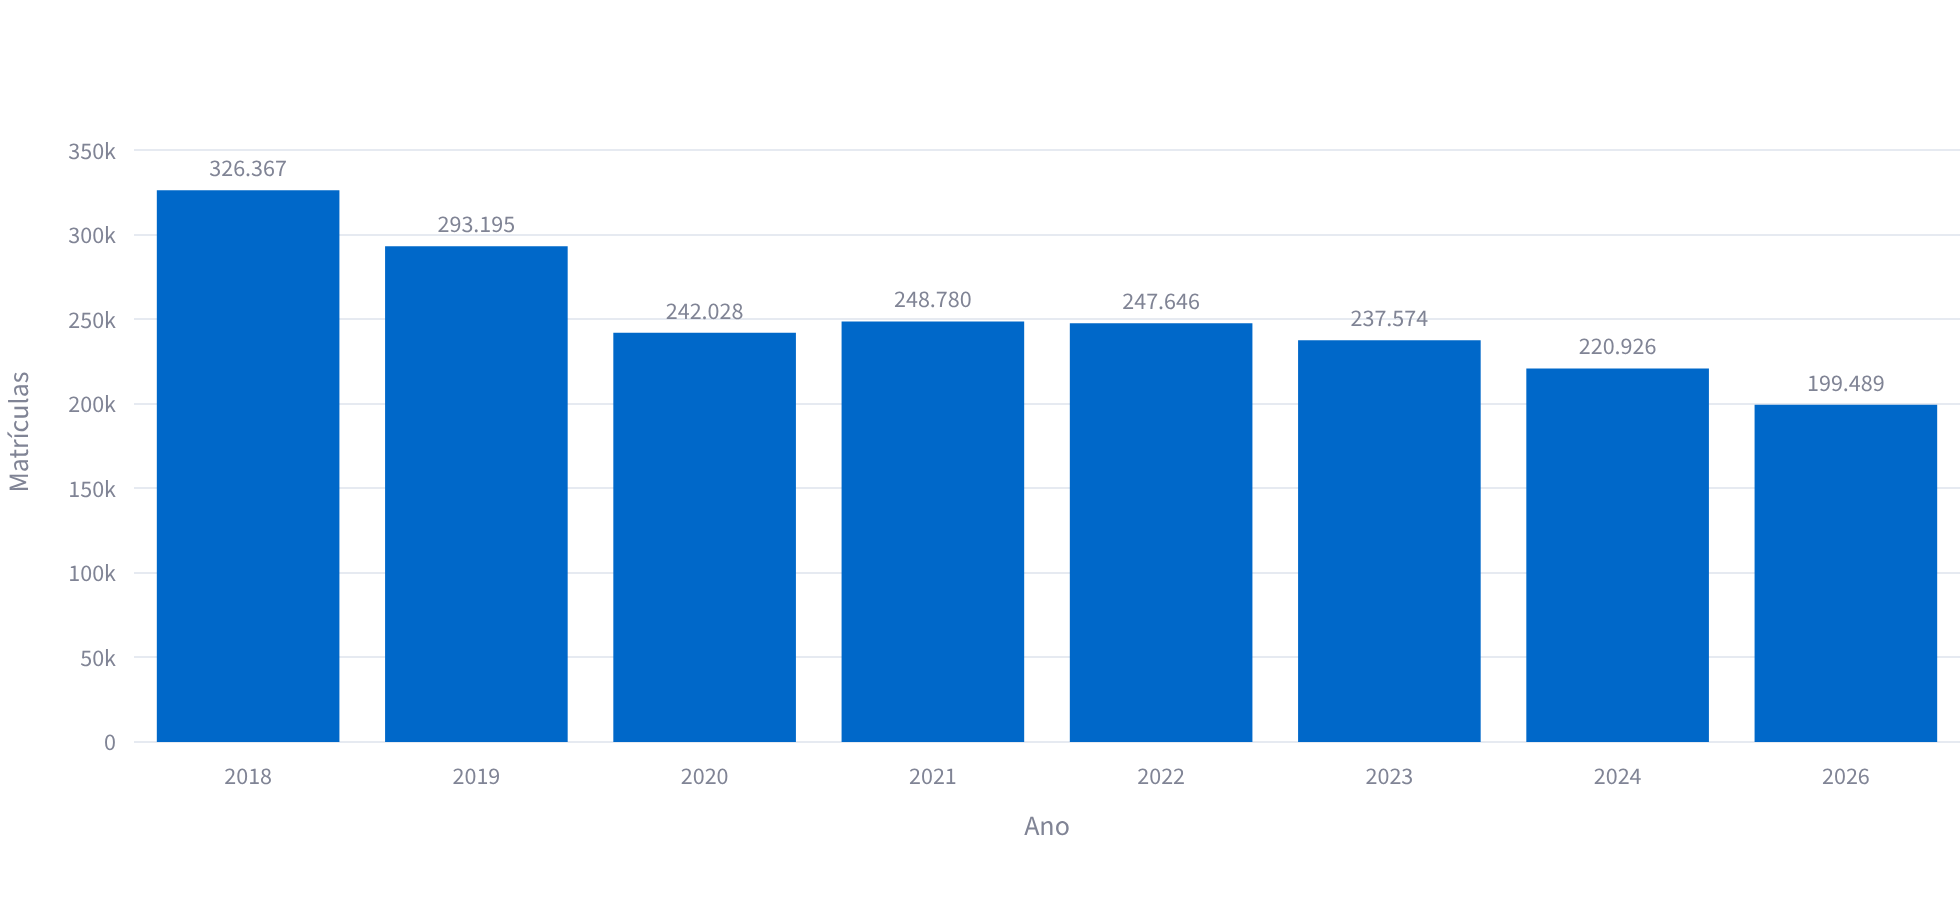
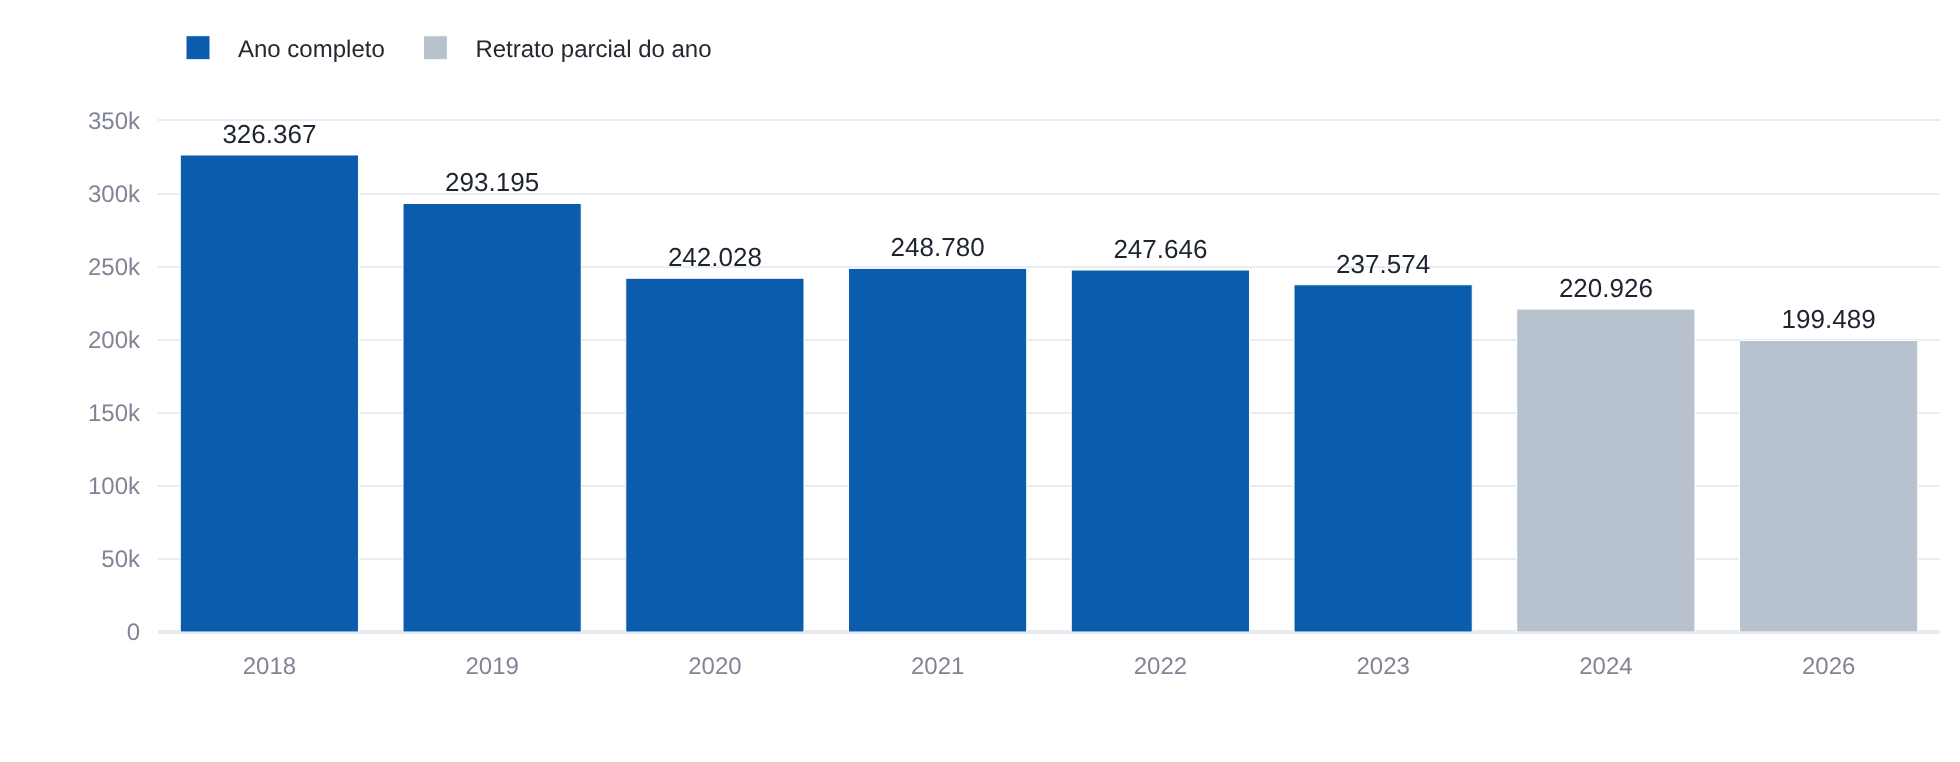
Redesenho visual do dashboard
- Tema claro com cor institucional e selo do ODS 4 no cabeçalho
- Abas Visão geral, Municípios e Dados
- Aprovação e demais taxas em gráficos separados, cada um com escala própria
- Matrículas de 2024 e 2026 destacadas como retrato parcial
- Ranking com a média marcada e novo ranking de maiores avanços
- Tabela com nomes legíveis, vírgula decimal e "—" para taxas ausentes
- Prints e README atualizados

Claude-Session: https://claude.ai/code/session_019t3nZRBpDnxDj5ysVaoMkY

diff --git a/app.py b/app.py
@@ -1,15 +1,71 @@
+"""Dashboard: evolução da educação na rede estadual de Mato Grosso do Sul (ODS 4)."""
 import plotly.express as px
+import plotly.graph_objects as go
 import streamlit as st
 
 from src.repository import RepositorioEscolar
 
-st.set_page_config(page_title="Educação em MS — ODS 4", layout="wide")
-st.title("Evolução da educação na rede estadual de Mato Grosso do Sul")
-st.caption(
-    "Fonte: Portal de Dados Abertos de MS / SED (licença CC-BY). "
-    "2025 não está disponível no portal. 2024 e 2026 são retratos do meio do ano letivo: "
-    "mostram matrículas, mas não têm taxas de rendimento."
+AZUL = "#0B5CAD"
+CINZA = "#B8C2CF"
+CORES = {"Aprovação": "#0B5CAD", "Reprovação": "#E67E22", "Abandono": "#C0392B", "Cancelamento": "#8E44AD"}
+FONTE = "Source Sans Pro, sans-serif"
+
+st.set_page_config(page_title="Educação em MS — ODS 4", page_icon="📊", layout="wide")
+
+st.markdown(
+    """
+    <style>
+      .block-container { padding-top: 2rem; }
+      .cabecalho { display: flex; gap: 1rem; align-items: center; margin-bottom: .25rem; }
+      .ods { background: #C5192D; color: #fff; border-radius: 8px; padding: .55rem .8rem; text-align: center;
+             font-weight: 700; line-height: 1.05; min-width: 74px; }
+      .ods span { display: block; font-size: .62rem; font-weight: 600; letter-spacing: .04em; }
+      .ods b { font-size: 1.7rem; }
+      .cabecalho h1 { font-size: 1.85rem; margin: 0; padding: 0; color: #12233B; }
+      .cabecalho p { margin: .15rem 0 0; color: #5B6472; font-size: .95rem; }
+      div[data-testid="stMetric"] { background: #F7F9FC; }
+      .nota { color: #5B6472; font-size: .85rem; }
+    </style>
+    <div class="cabecalho">
+      <div class="ods"><span>ODS</span><b>4</b><span>EDUCAÇÃO</span></div>
+      <div>
+        <h1>Evolução da educação na rede estadual de Mato Grosso do Sul</h1>
+        <p>Aprovação, reprovação, abandono e matrículas por município e ano · dados oficiais da SED/MS</p>
+      </div>
+    </div>
+    """,
+    unsafe_allow_html=True,
 )
+
+
+def pct(v: float) -> str:
+    return f"{v:.1f}%".replace(".", ",")
+
+
+def pp(v: float) -> str:
+    return f"{v:+.1f}".replace(".", ",") + " p.p."
+
+
+def nome(m: str) -> str:
+    """CAMPO GRANDE -> Campo Grande; preposições em minúsculas."""
+    t = m.title()
+    for prep in ("Do", "Da", "De", "Dos", "Das"):
+        t = t.replace(f" {prep} ", f" {prep.lower()} ")
+    return t
+
+
+def milhar(v: float) -> str:
+    return f"{int(v):,}".replace(",", ".")
+
+
+def estilo(fig: go.Figure, altura: int = 360) -> go.Figure:
+    fig.update_layout(template="plotly_white", height=altura, separators=",.",
+                      font=dict(family=FONTE, size=13, color="#1D2430"),
+                      margin=dict(l=10, r=10, t=10, b=10), hoverlabel=dict(font_family=FONTE),
+                      legend=dict(orientation="h", yanchor="bottom", y=1.02, x=0, title=None))
+    fig.update_xaxes(showgrid=False)
+    fig.update_yaxes(gridcolor="#E9EDF3")
+    return fig
 
 
 @st.cache_resource
@@ -22,9 +78,16 @@ anos = repo.anos()
 
 with st.sidebar:
     st.header("Filtros")
-    sel_mun = st.multiselect("Municípios (vazio = estado todo)", repo.municipios(),
-                             placeholder="Selecione municípios")
+    sel_mun = st.multiselect("Municípios", repo.municipios(), placeholder="Estado todo")
     ano_ini, ano_fim = st.select_slider("Período", options=anos, value=(anos[0], anos[-1]))
+    st.divider()
+    st.markdown(
+        "<div class='nota'><b>Sobre os dados</b><br>Fonte: Portal de Dados Abertos de MS (SED/MS, CC-BY).<br>"
+        "• 2025 não está disponível no portal.<br>"
+        "• 2024 e 2026 são retratos do meio do ano letivo: têm matrículas, mas não taxas.<br>"
+        "• O abandono é registrado como zero a partir de 2020; por isso também mostramos o cancelamento.</div>",
+        unsafe_allow_html=True,
+    )
 
 df = repo.indicadores(sel_mun, ano_ini, ano_fim)
 if df.empty:
@@ -41,84 +104,144 @@ agg["Reprovação"] = (agg["reprovados"] / base * 100).where(agg["completo"])
 agg["Abandono"] = (agg["abandono"] / base * 100).where(agg["completo"])
 agg["Cancelamento"] = (agg["cancelados"] / (base + agg["cancelados"]) * 100).where(agg["completo"])
 completos = agg[agg["completo"]]
+recorte = "Estado todo" if not sel_mun else ", ".join(nome(m) for m in sel_mun[:3]) + ("…" if len(sel_mun) > 3 else "")
 
-def pct(v: float) -> str:
-    return f"{v:.1f}%".replace(".", ",")
+st.caption(f"Recorte: **{recorte}** · {ano_ini}–{ano_fim}")
 
+aba_geral, aba_mun, aba_dados = st.tabs(["Visão geral", "Municípios", "Dados"])
 
-def pp(v: float) -> str:
-    return f"{v:+.1f}".replace(".", ",") + " p.p."
+# ---------------------------------------------------------------- Visão geral
+with aba_geral:
+    if len(completos) >= 2:
+        a, b = completos.iloc[0], completos.iloc[-1]
+        ini, fim = int(a.ano), int(b.ano)
+        c1, c2, c3, c4 = st.columns(4)
+        c1.metric(f"Aprovação {fim}", pct(b["Aprovação"]), f"{pp(b['Aprovação'] - a['Aprovação'])} desde {ini}",
+                  border=True)
+        c2.metric(f"Reprovação {fim}", pct(b["Reprovação"]), f"{pp(b['Reprovação'] - a['Reprovação'])} desde {ini}",
+                  delta_color="inverse", border=True)
+        c3.metric(f"Cancelamento {fim}", pct(b["Cancelamento"]),
+                  f"{pp(b['Cancelamento'] - a['Cancelamento'])} desde {ini}", delta_color="inverse", border=True)
+        ult, pri = agg.iloc[-1], agg.iloc[0]
+        var_mat = (ult.matriculas / pri.matriculas - 1) * 100
+        c4.metric(f"Matrículas {int(ult.ano)}", milhar(ult.matriculas),
+                  f"{var_mat:+.0f}% desde {int(pri.ano)}", delta_color="off", border=True)
+    else:
+        st.info("Escolha um período com pelo menos dois anos completos (2018 a 2023) para ver a variação.")
 
+    if not completos.empty:
+        col1, col2 = st.columns(2)
+        with col1:
+            st.markdown("##### Taxa de aprovação")
+            fig = px.line(completos, x="ano", y="Aprovação", markers=True, text="Aprovação",
+                          color_discrete_sequence=[AZUL], labels={"ano": "", "Aprovação": ""})
+            posicoes = ["bottom center"] + ["top center"] * (len(completos) - 1)
+            fig.update_traces(texttemplate="%{text:.1f}%", textposition=posicoes, line_width=3,
+                              marker_size=9, hovertemplate="%{x}: %{y:.1f}%<extra></extra>")
+            lo, hi = completos["Aprovação"].min(), completos["Aprovação"].max()
+            fig.update_yaxes(range=[max(0, lo - 7), min(100, hi + 4)], ticksuffix="%")
+            fig.update_xaxes(dtick=1)
+            st.plotly_chart(estilo(fig), width="stretch")
+        with col2:
+            st.markdown("##### Reprovação, abandono e cancelamento")
+            longo = completos.melt(id_vars="ano", value_vars=["Reprovação", "Abandono", "Cancelamento"],
+                                   var_name="Indicador", value_name="Taxa")
+            fig = px.line(longo, x="ano", y="Taxa", color="Indicador", markers=True,
+                          color_discrete_map=CORES, labels={"ano": "", "Taxa": ""})
+            fig.update_traces(line_width=3, marker_size=8, hovertemplate="%{x}: %{y:.1f}%<extra></extra>")
+            fig.update_yaxes(rangemode="tozero", ticksuffix="%")
+            fig.update_xaxes(dtick=1)
+            st.plotly_chart(estilo(fig), width="stretch")
+        st.markdown("<div class='nota'>Taxas calculadas só para anos completos (2018–2023), no padrão INEP: "
+                    "Aprovados ÷ (Aprovados + Reprovados + Abandono).</div>", unsafe_allow_html=True)
 
-# Cartões: primeiro e último ano completos do período
-if len(completos) >= 2:
-    a, b = completos.iloc[0], completos.iloc[-1]
-    ini, fim = int(a.ano), int(b.ano)
-    c1, c2, c3, c4 = st.columns(4)
-    c1.metric(f"Aprovação {fim}", pct(b["Aprovação"]), f"{pp(b['Aprovação'] - a['Aprovação'])} desde {ini}")
-    c2.metric(f"Reprovação {fim}", pct(b["Reprovação"]),
-              f"{pp(b['Reprovação'] - a['Reprovação'])} desde {ini}", delta_color="inverse")
-    c3.metric(f"Cancelamento {fim}", pct(b["Cancelamento"]),
-              f"{pp(b['Cancelamento'] - a['Cancelamento'])} desde {ini}", delta_color="inverse")
-    ult = agg.iloc[-1]
-    c4.metric(f"Matrículas {int(ult.ano)}", f"{int(ult.matriculas):,}".replace(",", "."))
-else:
-    st.info("Escolha um período com pelo menos dois anos completos (2018 a 2023) para ver a variação.")
+    st.markdown("##### Matrículas por ano")
+    barras = agg.assign(ano=agg["ano"].astype(str),
+                        situacao=agg["completo"].map({True: "Ano completo", False: "Retrato parcial do ano"}))
+    fig = px.bar(barras, x="ano", y="matriculas", text="matriculas", color="situacao",
+                 color_discrete_map={"Ano completo": AZUL, "Retrato parcial do ano": CINZA},
+                 labels={"matriculas": "", "ano": ""})
+    fig.update_traces(texttemplate="%{text:,.0f}", textposition="outside", cliponaxis=False,
+                      hovertemplate="%{x}: %{y:,.0f} matrículas<extra></extra>")
+    fig.update_xaxes(type="category")
+    st.plotly_chart(estilo(fig, 380), width="stretch")
 
-if not completos.empty:
-    st.subheader("Taxas de rendimento por ano (anos completos)")
-    longo = completos.melt(id_vars="ano", value_vars=["Aprovação", "Reprovação", "Abandono", "Cancelamento"],
-                           var_name="Indicador", value_name="Taxa (%)")
-    cores = {"Aprovação": "#2e86de", "Reprovação": "#f39c12", "Abandono": "#e74c3c", "Cancelamento": "#8e44ad"}
-    fig = px.line(longo, x="ano", y="Taxa (%)", color="Indicador", markers=True, labels={"ano": "Ano"},
-                  color_discrete_map=cores)
-    fig.update_xaxes(dtick=1)
-    fig.update_layout(separators=",.")
-    st.plotly_chart(fig, width="stretch")
-    st.caption("O portal registra abandono igual a zero em todas as escolas a partir de 2020. "
-               "Cancelamento (matrículas canceladas) é exibido como indicador complementar.")
+# ---------------------------------------------------------------- Municípios
+with aba_mun:
+    anos_completos = sorted(df.loc[df["ano_completo"] == 1, "ano"].unique())
+    if not anos_completos:
+        st.info("O período escolhido não tem anos completos (2018 a 2023).")
+    elif len(sel_mun) == 1:
+        st.info("Com um único município selecionado, veja a tabela de escolas abaixo. "
+                "Para comparar municípios, deixe o filtro vazio ou escolha vários.")
+    else:
+        ano_rank, ano_base = int(anos_completos[-1]), int(anos_completos[0])
+        media = completos.loc[completos["ano"] == ano_rank, "Aprovação"].iloc[0]
+        col1, col2 = st.columns(2)
+        with col1:
+            st.markdown(f"##### Menor aprovação em {ano_rank}")
+            rank = (df[df["ano"] == ano_rank].dropna(subset=["taxa_aprovacao"])
+                    .sort_values("taxa_aprovacao").head(15))
+            fig = go.Figure(go.Bar(x=rank["taxa_aprovacao"], y=rank["municipio"].map(nome), orientation="h",
+                                   marker_color=AZUL, text=rank["taxa_aprovacao"], texttemplate="%{text:.1f}%",
+                                   textposition="inside", insidetextanchor="end",
+                                   textfont=dict(color="#FFFFFF"),
+                                   hovertemplate="%{y}: %{x:.1f}%<extra></extra>"))
+            fig.add_vline(x=media, line_dash="dash", line_color="#C0392B", line_width=2)
+            fig.add_annotation(x=media, y=1, yref="paper", yanchor="bottom", showarrow=False,
+                               text=f"média {pct(media)}", font=dict(color="#C0392B"))
+            fig.update_yaxes(autorange="reversed")
+            fig.update_xaxes(range=[0, 100], ticksuffix="%")
+            fig = estilo(fig, 160 + 30 * len(rank))
+            fig.update_layout(margin=dict(t=34))
+            st.plotly_chart(fig, width="stretch")
+        with col2:
+            st.markdown(f"##### Maiores avanços na aprovação ({ano_base}→{ano_rank})")
+            ini = df[df["ano"] == ano_base].set_index("municipio")["taxa_aprovacao"]
+            fim = df[df["ano"] == ano_rank].set_index("municipio")["taxa_aprovacao"]
+            dif = (fim - ini).dropna()
+            var = dif.sort_values(ascending=False).head(15)
+            if ano_base == ano_rank or var.empty:
+                st.info("Escolha um período com pelo menos dois anos completos.")
+            else:
+                cores = ["#1E8449" if v >= 0 else "#C0392B" for v in var]
+                fig = go.Figure(go.Bar(x=var.values, y=[nome(m) for m in var.index], orientation="h",
+                                       marker_color=cores, text=var.values, texttemplate="%{text:+.1f} p.p.",
+                                       textposition="outside", cliponaxis=False,
+                                       hovertemplate="%{y}: %{x:+.1f} p.p.<extra></extra>"))
+                fig.update_yaxes(autorange="reversed")
+                fig.update_xaxes(ticksuffix=" p.p.", range=[min(0, var.min()) - 2, max(var.max(), 1) * 1.3])
+                fig = estilo(fig, 160 + 30 * len(var))
+                fig.update_layout(margin=dict(t=34))
+                st.plotly_chart(fig, width="stretch")
+                st.markdown(f"<div class='nota'>{int(dif.gt(0).sum())} de {dif.size} municípios aumentaram a "
+                            f"aprovação entre {ano_base} e {ano_rank}.</div>", unsafe_allow_html=True)
 
-st.subheader("Matrículas por ano")
-barras = agg.assign(ano=agg["ano"].astype(str))  # eixo por categoria: 2025 não aparece como coluna vazia
-fig = px.bar(barras, x="ano", y="matriculas", text="matriculas", labels={"matriculas": "Matrículas", "ano": "Ano"})
-fig.update_traces(texttemplate="%{text:,.0f}", textposition="outside")
-fig.update_xaxes(type="category")
-fig.update_layout(separators=",.")
-st.plotly_chart(fig, width="stretch")
-st.caption("Não há arquivo de 2025 no portal. 2024 e 2026 são retratos do meio do ano letivo.")
+    if len(sel_mun) == 1:
+        st.markdown(f"##### Escolas de {nome(sel_mun[0])}")
+        escolas = repo.escolas(sel_mun[0], ano_ini, ano_fim).rename(columns={
+            "escola": "Escola", "ano": "Ano", "matriculas": "Matrículas", "aprovados": "Aprovados",
+            "reprovados": "Reprovados", "abandono": "Abandono", "cancelados": "Cancelados",
+            "transferidos": "Transferidos", "cursando": "Cursando"})
+        st.dataframe(escolas, width="stretch", hide_index=True,
+                     column_config={"Ano": st.column_config.NumberColumn(format="%d")})
 
-anos_completos = sorted(df.loc[df["ano_completo"] == 1, "ano"].unique())
-if anos_completos and len(sel_mun) != 1:
-    ano_rank = int(anos_completos[-1])
-    rank = df[df["ano"] == ano_rank].dropna(subset=["taxa_aprovacao"]).sort_values("taxa_aprovacao").head(15)
-    st.subheader(f"Municípios com menor aprovação em {ano_rank}")
-    fig = px.bar(rank, x="taxa_aprovacao", y="municipio", orientation="h", text="taxa_aprovacao",
-                 labels={"taxa_aprovacao": "Aprovação (%)", "municipio": ""})
-    fig.update_traces(texttemplate="%{text:.1f}%", textposition="outside")
-    fig.update_yaxes(autorange="reversed")  # o pior fica em cima
-    fig.update_xaxes(range=[0, 100])
-    fig.update_layout(separators=",.", height=120 + 32 * len(rank))
-    st.plotly_chart(fig, width="stretch")
-
-if len(sel_mun) == 1:
-    st.subheader(f"Escolas de {sel_mun[0]}")
-    escolas = repo.escolas(sel_mun[0], ano_ini, ano_fim).rename(columns={
-        "escola": "Escola", "ano": "Ano", "matriculas": "Matrículas", "aprovados": "Aprovados",
-        "reprovados": "Reprovados", "abandono": "Abandono", "cancelados": "Cancelados",
-        "transferidos": "Transferidos", "cursando": "Cursando"})
-    st.dataframe(escolas, width="stretch", hide_index=True,
-                 column_config={"Ano": st.column_config.NumberColumn(format="%d")})
-
-st.subheader("Dados filtrados")
-tabela = df.drop(columns=["cursando"]).rename(columns={
-    "municipio": "Município", "ano": "Ano", "escolas": "Escolas", "matriculas": "Matrículas",
-    "aprovados": "Aprovados", "reprovados": "Reprovados", "abandono": "Abandono", "cancelados": "Cancelados",
-    "transferidos": "Transferidos", "ano_completo": "Ano completo", "taxa_aprovacao": "Aprovação (%)",
-    "taxa_reprovacao": "Reprovação (%)", "taxa_abandono": "Abandono (%)", "taxa_cancelamento": "Cancelamento (%)"})
-tabela["Ano completo"] = tabela["Ano completo"].map({1: "Sim", 0: "Não"})
-taxas = ["Aprovação (%)", "Reprovação (%)", "Abandono (%)", "Cancelamento (%)"]
-st.dataframe(tabela, width="stretch", hide_index=True,
-             column_config={"Ano": st.column_config.NumberColumn(format="%d"),
-                            **{c: st.column_config.NumberColumn(format="%.1f") for c in taxas}})
-st.caption("Taxas vazias = ano incompleto (2024 e 2026).")
-st.download_button("Baixar CSV", df.to_csv(index=False).encode("utf-8-sig"), "indicadores_ms.csv")
+# ---------------------------------------------------------------- Dados
+with aba_dados:
+    tabela = df.drop(columns=["cursando"]).rename(columns={
+        "municipio": "Município", "ano": "Ano", "escolas": "Escolas", "matriculas": "Matrículas",
+        "aprovados": "Aprovados", "reprovados": "Reprovados", "abandono": "Abandono", "cancelados": "Cancelados",
+        "transferidos": "Transferidos", "ano_completo": "Ano completo", "taxa_aprovacao": "Aprovação (%)",
+        "taxa_reprovacao": "Reprovação (%)", "taxa_abandono": "Abandono (%)", "taxa_cancelamento": "Cancelamento (%)"})
+    tabela["Município"] = tabela["Município"].map(nome)
+    tabela["Ano completo"] = tabela["Ano completo"].map({1: "Sim", 0: "Não"})
+    for c in ["Aprovação (%)", "Reprovação (%)", "Abandono (%)", "Cancelamento (%)"]:
+        tabela[c] = tabela[c].map(lambda v: "—" if v != v or v is None else f"{v:.1f}".replace(".", ","))
+    inteiros = ["Escolas", "Matrículas", "Aprovados", "Reprovados", "Abandono", "Cancelados", "Transferidos"]
+    st.dataframe(tabela, width="stretch", hide_index=True, height=480,
+                 column_config={"Ano": st.column_config.NumberColumn(format="%d"),
+                                **{c: st.column_config.NumberColumn(format="localized") for c in inteiros}})
+    st.markdown("<div class='nota'>— = ano incompleto (2024 e 2026), sem taxas de rendimento.</div>",
+                unsafe_allow_html=True)
+    st.download_button("Baixar CSV", df.to_csv(index=False).encode("utf-8-sig"), "indicadores_ms.csv",
+                       type="primary")

diff --git a/README.md b/README.md
@@ -82,6 +82,7 @@ src/repository.py    RepositorioEscolar: consultas usadas pela interface
 scripts/             download dos dados e carga do banco
 app.py               dashboard Streamlit
 docs/img/            prints do sistema
+.streamlit/          tema visual do dashboard
 ```
 
 Fluxo: **CSV → CarregadorCSV → objetos em memória → SQLite → RepositorioEscolar → dashboard**.
@@ -100,10 +101,8 @@ Carga verificada: 3.703 registros, 79 municípios e 598 escolas distintas.
 
 ## Prints
 
-| Estado (2018–2026) | Campo Grande |
+| Visão geral (estado, 2018–2026) | Comparação entre municípios |
 |---|---|
-| ![](docs/img/dashboard_estado.png) | ![](docs/img/dashboard_campo_grande.png) |
-
-![Taxas por ano](docs/img/serie_historica.png)
-![Matrículas por ano](docs/img/matriculas_por_ano.png)
-![Municípios com menor aprovação em 2023](docs/img/ranking_municipios.png)
+| ![](docs/img/dashboard_estado.png) | ![](docs/img/dashboard_municipios.png) |
+| **Filtro por município (Campo Grande)** | **Dados filtrados** |
+| ![](docs/img/dashboard_campo_grande.png) | ![](docs/img/dashboard_dados.png) |
